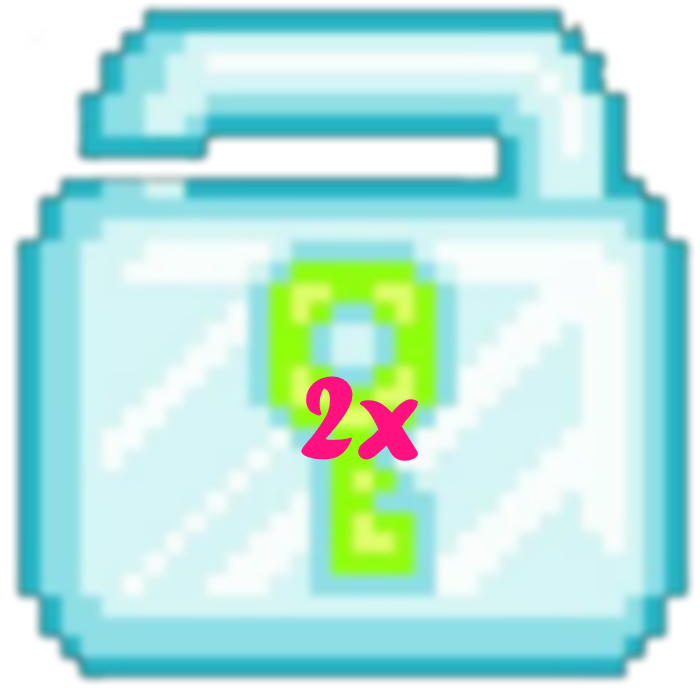
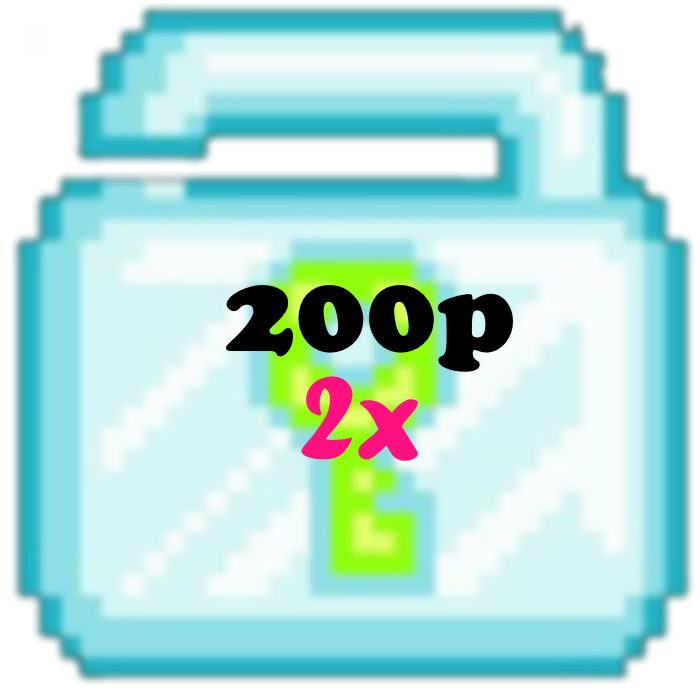
valmis

Changed region(s): [[0.3, 0.39, 0.75, 0.54]]

diff --git a/Cookie Clicker/skriptit.js b/Cookie Clicker/skriptit.js
@@ -1,35 +1,63 @@
 var kerroin = 1;
 var laskuri = 0;
+var info = document.getElementById('info');
 
+function nappi(){
+    laskuri = laskuri + 1 * kerroin;
+    console.log('Pisteet: ' + laskuri);
+    tulosta();
+    info.innerHTML = "";
+}
 
-    function nappi(){
-        laskuri = laskuri + 1 * kerroin;
-        console.log('Pisteet: ' + laskuri);
-        tulosta();
-        }
+function tulosta(){
+    console.log(laskuri);
+    document.getElementById("laskenta").innerHTML = laskuri;
+}
 
-    function tulosta(){
-        console.log(laskuri);
-        document.getElementById("laskenta").innerHTML = laskuri;
-        }
-    
-    function laskuri(){
-        console.log(pisteet);
-        tulosta();
-        }
-    
-    function laske(){
-        console.log(laskuri);
-        laskuri = laskuri + 1 * kerroin * 10;
-        laskenta.innerHTML = laskuri;
-        }
+function laskuri(){
+    console.log(pisteet);
+    tulosta();
+}
 
-    function kaksi(){
-        if(laskuri < 100){
-            show();
-            info.innerHTML = "Sinulla pitää olla 100 pistettä";
-            hide();
-            return;
-        }
-        
+function laske(){
+    console.log(laskuri);
+    laskuri = laskuri + 1 * kerroin * 10;
+    laskenta.innerHTML = laskuri;
+}
+
+function kaksi(){
+    if(laskuri < 200){
+        console.log(info);
+        info.innerHTML = "Pisteet ei riitä";
+        return;
     }
+    laskuri = laskuri-200;
+    kerroin = kerroin + 1;
+    tulosta();
+    console.log("kerroin:" + kerroin);
+}
+
+function nelja(){
+    if(laskuri < 500){
+        console.log(info);
+        info.innerHTML = "Pisteet ei riitä";
+        return;
+    }
+    laskuri = laskuri-500;
+    kerroin = kerroin + 3;
+    tulosta();
+    console.log("kerroin:" + kerroin);
+}
+
+function kymmenen(){
+    if(laskuri < 2000){
+        console.log(info);
+        info.innerHTML = "Pisteet ei riitä";
+        return;
+    }
+    laskuri = laskuri-2000;
+    kerroin = kerroin + 9;
+    tulosta();
+    console.log("kerroin:" + kerroin);
+}
+

diff --git a/Cookie Clicker/index.html b/Cookie Clicker/index.html
@@ -20,14 +20,12 @@
             font-size: 30px;
             color: yellow;
         }
-
         .laskenta{
             text-align: relative;
             text-align: center;
             font-size: 70px;
             color:yellow;
         }
-
         .kuvat{
             text-align: center;
             
@@ -35,7 +33,7 @@
         
     </style>
 
-    <script src="skriptit.js"></script>
+    
 
 </head>
 <body>
@@ -48,16 +46,20 @@
     <input type="image" onclick="nappi()" src="img/wl.png" height="250px">
     </div>
 
-    <div class="laskenta">
-    <p id="laskenta"></p>
-    </div>
-
     <div class="kuvat">
+    <br><br><br>
     <input type="image" onclick="kaksi()" src="img/2x.png" height="120px">
     <input type="image" onclick="nelja()" src="img/4x.png" height="120px"> 
-    <input type="image" onclick="kymmenen()" src="img/5x.png" height="120px">    
+    <input type="image" onclick="kymmenen()" src="img/5x.png" height="120px"> 
+        
+        <div class="laskenta">
+        <p id="laskenta"></p>
+        <p id="info"></p>
+        </div>  
+
     </div>  
+
+    <script src="skriptit.js"></script>
 
 </body>
 </html>
-
